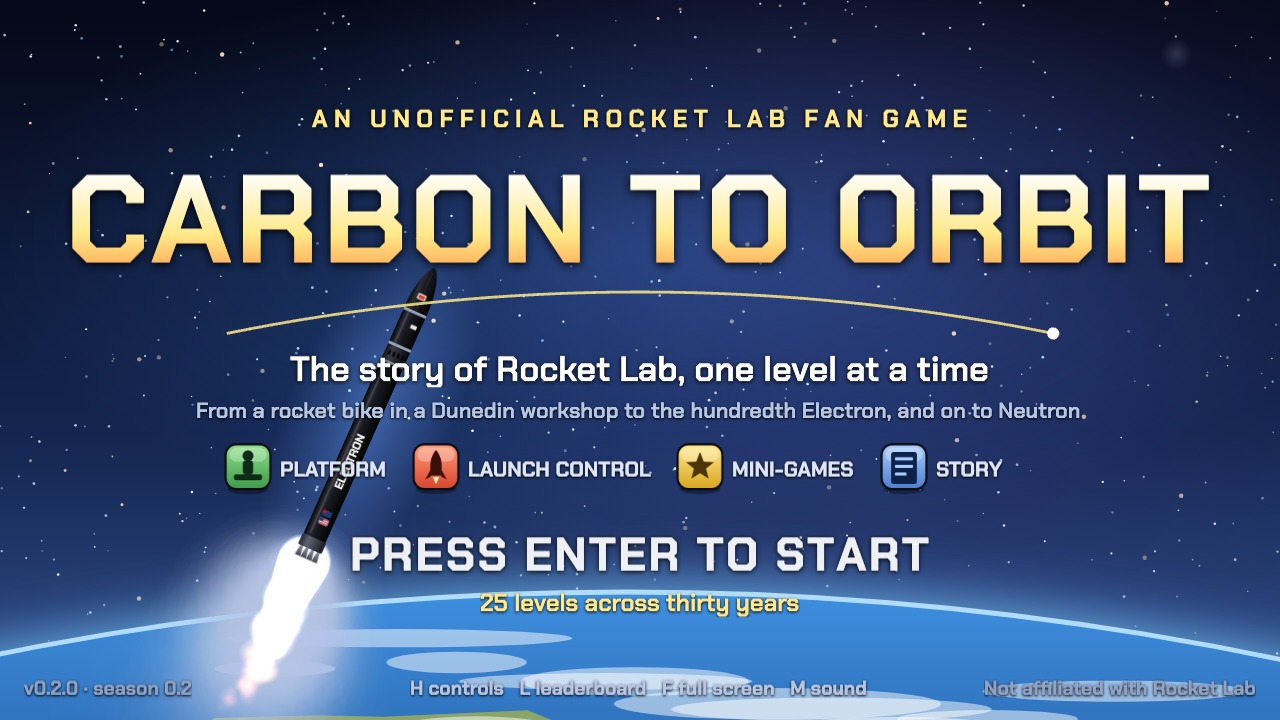
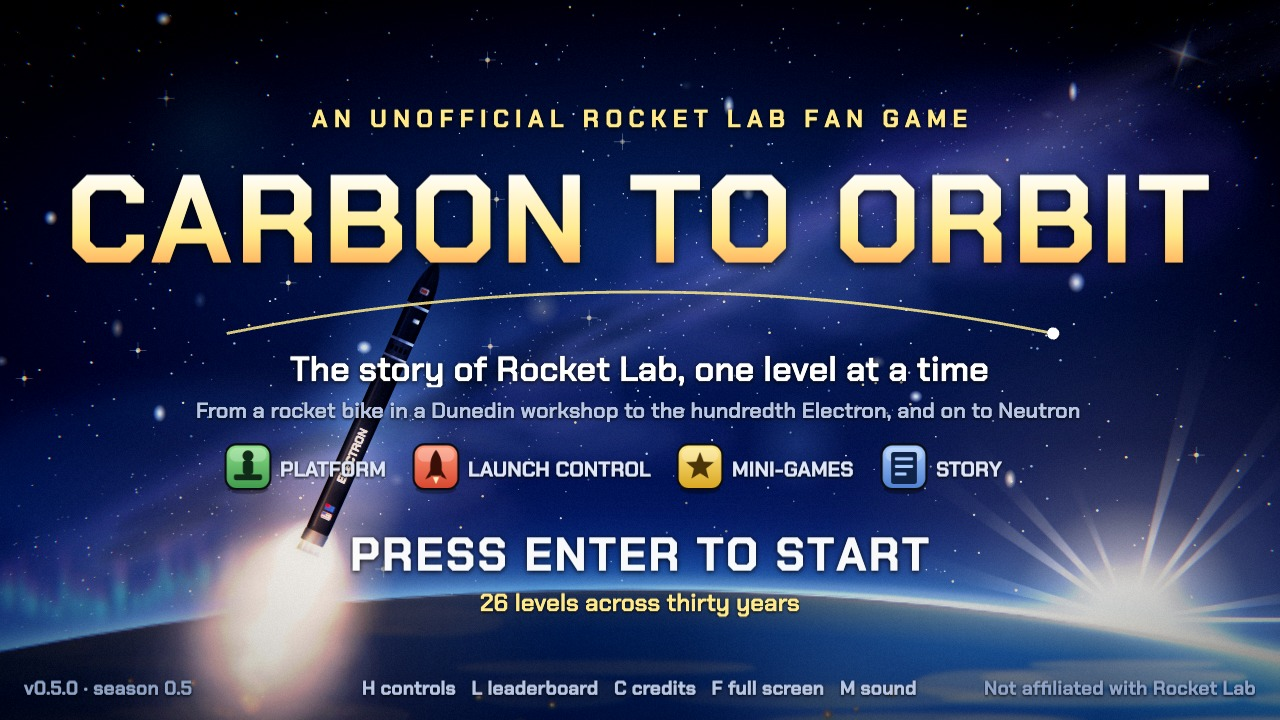
The title screen gets the hi-fi look: an Electron climbing into an orbital sunrise
The rocket is lit by its plume, earthshine and the sun; every word stays on the HUD camera. docs/media/title.jpg is a new hi-fi capture.

diff --git a/src/looks/title.ts b/src/looks/title.ts
@@ -1,0 +1,108 @@
+import Phaser from 'phaser';
+import { D, S, C2, el, line, lg, rg, rng } from '../art';
+import { texAt, soft, add, halo } from '../hifi';
+import type { Look } from '../hifi';
+import { spaceTextures, SPACE } from './flight';
+
+// ------------------------------------------------------------------ The title screen: an Electron climbing into an orbital sunrise
+// The title is no one day of the story, so its light is the game's choice: the moment a rocket climbing out of the
+// Earth's shadow meets the sun coming over the limb. The Milky Way stands behind the name, the air glows along the edge
+// of the Earth with an aurora low on the night side, and the rocket is lit for real: its own plume from below, earthshine
+// from underneath, the sun from the right. Every word on the screen is on the HUD camera, exactly as it was.
+const SUN = [126, 41]; // where the sun stands on the limb, measured from the middle of the Earth drawing and from its top
+const DIR = [-Math.sin((24 * Math.PI) / 180), Math.cos((24 * Math.PI) / 180)]; // the way the exhaust leaves a rocket leaning 24°
+
+function sky(c: C2) {
+  const r = rng(17);
+  c.fillStyle = lg(c, 0, 0, 0, 180, [0, '#020309'], [0.5, '#060a1e'], [0.8, '#0e1a44'], [1, '#1c3470']); c.fillRect(0, 0, 320, 180);
+  // the Milky Way, from the lower left to the upper right: glow, then dust lanes, then its crowd of faint stars
+  c.save(); c.translate(160, 78); c.rotate(-0.42);
+  soft(c, 9); for (let i = 0; i < 44; i++) { const x = -210 + i * 9.6 + r() * 10, k = 1 - Math.abs(i - 22) / 30; el(c, x, (r() - 0.5) * 16, 16 + r() * 18, (5 + r() * 9) * k, `rgba(${110 + r() * 70},${120 + r() * 50},${220 + r() * 30},${0.035 + r() * 0.05})`); }
+  for (let i = 0; i < 12; i++) el(c, -140 + r() * 280, (r() - 0.5) * 12, 10 + r() * 16, 3 + r() * 4, `rgba(255,${170 + r() * 50},${150 + r() * 40},${0.03 + r() * 0.03})`);
+  soft(c, 4); for (let i = 0; i < 16; i++) el(c, -170 + r() * 340, (r() - 0.5) * 9, 10 + r() * 22, 1 + r() * 2.2, 'rgba(2,3,10,.34)'); soft(c, 0);
+  for (let i = 0; i < 900; i++) { const x = -220 + r() * 440, y = (r() + r() + r() - 1.5) * 20; c.globalAlpha = 0.15 + r() * 0.5; el(c, x, y, 0.1 + r() * 0.14, 0.1 + r() * 0.14, r() < 0.2 ? '#ffd9a8' : '#dfe8ff'); }
+  c.globalAlpha = 1; c.restore();
+  soft(c, 12); el(c, 262, 44, 52, 26, 'rgba(120,70,200,.10)'); el(c, 52, 120, 60, 24, 'rgba(40,120,200,.10)'); soft(c, 0); // two faint nebulae
+  c.fillStyle = lg(c, 0, 110, 0, 180, [0, 'rgba(60,110,220,0)'], [1, 'rgba(60,110,220,.22)']); c.fillRect(0, 110, 320, 70); // the planet's own light, coming up from below
+}
+function sun(c: C2) { // the sun on the edge of the Earth: a hard point, its glare, and the streak a lens draws through it
+  const x = 80, y = 80, r = rng(3);
+  halo(c, x, y, 78, '255,214,160', 0.3); halo(c, x, y, 30, '255,236,200', 0.7);
+  add(c, () => { for (let i = 0; i < 16; i++) { const a = (i / 16) * 6.283 + r() * 0.3, len = 26 + r() * 44, w = 0.02 + r() * 0.03; c.fillStyle = rg(c, x, y, 2, len, [0, 'rgba(255,240,210,.3)'], [1, 'rgba(255,240,210,0)']); c.beginPath(); c.moveTo(x, y); c.arc(x, y, len, a - w, a + w); c.closePath(); c.fill(); } });
+  add(c, () => { c.fillStyle = lg(c, 0, 0, 160, 0, [0, 'rgba(190,220,255,0)'], [0.5, 'rgba(230,240,255,.85)'], [1, 'rgba(190,220,255,0)']); c.fillRect(0, y - 0.45, 160, 0.9); });
+  el(c, x, y, 3.2, 3.2, '#ffffff'); halo(c, x, y, 9, '255,255,255', 1);
+}
+function crescent(c: C2) { // the air along the limb, burning where the sun comes through it (the same circle as the Earth drawing)
+  const cx = 200, cy = 830, R = 800, sx = 200 + SUN[0];
+  for (const [w, a, col] of [[5, 0.16, '255,150,90'], [2.2, 0.4, '255,214,160'], [0.8, 0.95, '255,250,236']] as [number, number, string][]) {
+    c.beginPath(); c.arc(cx, cy, R + w * 0.3, Math.PI * 1.3, Math.PI * 1.7);
+    c.strokeStyle = lg(c, sx - 150, 0, sx + 70, 0, [0, `rgba(${col},0)`], [0.68, `rgba(${col},${a})`], [1, `rgba(${col},0)`]); c.lineWidth = w; soft(c, w * 0.5); c.stroke();
+  }
+  soft(c, 0);
+}
+function night(c: C2) { // the side of the Earth the sun has not reached yet (the same circle as the Earth drawing)
+  const cx = 200, cy = 830, R = 800.6, sx = 200 + SUN[0];
+  c.save(); el(c, cx, cy, R, R); c.clip();
+  c.fillStyle = lg(c, sx - 300, 0, sx + 40, 0, [0, 'rgba(2,5,18,.9)'], [0.55, 'rgba(3,8,26,.78)'], [0.86, 'rgba(8,16,44,.4)'], [1, 'rgba(20,30,70,.05)']); c.fillRect(0, 0, 400, 130);
+  c.fillStyle = lg(c, 0, 30, 0, 130, [0, 'rgba(2,5,18,0)'], [1, 'rgba(2,5,18,.5)']); c.fillRect(0, 0, 400, 130);
+  const r = rng(40); for (let i = 0; i < 70; i++) { const x = 20 + r() * 250, y = 52 + r() * 70; halo(c, x, y, 0.8 + r() * 1.4, '255,206,140', 0.5 + r() * 0.4); } // towns, on the land still in the dark
+  c.restore();
+}
+function aurora(c: C2) { // the southern lights, low over the night side: curtains of green with a red fringe
+  const r = rng(6);
+  soft(c, 1.6);
+  for (let i = 0; i < 46; i++) { const x = 6 + i * 2.4 + r() * 2, h = 8 + r() * 14 * Math.sin((i / 46) * Math.PI), y = 30 - Math.sin(i * 0.22) * 3 - (i / 46) * 5; c.fillStyle = lg(c, 0, y - h, 0, y, [0, 'rgba(255,90,140,0)'], [0.25, 'rgba(255,90,140,.16)'], [0.6, 'rgba(90,255,170,.42)'], [1, 'rgba(90,255,170,0)']); c.fillRect(x, y - h, 1.8 + r() * 1.6, h); }
+  soft(c, 0);
+}
+function glint(c: C2) { add(c, () => { for (const [dx, dy] of [[1, 0], [0, 1]]) { c.fillStyle = lg(c, 8 - dx * 8, 8 - dy * 8, 8 + dx * 8, 8 + dy * 8, [0, 'rgba(255,255,255,0)'], [0.5, 'rgba(255,255,255,.95)'], [1, 'rgba(255,255,255,0)']); c.fillRect(dx ? 0 : 7.7, dy ? 0 : 7.7, dx ? 16 : 0.6, dy ? 16 : 0.6); } }); line(c, 8, 8, 8, 8, '#fff', 0.1); }
+
+type Im = Phaser.GameObjects.Image;
+let o: { sun: Im; rays: Im; dark: Im; arc: Im; aur: Im; plume: Im; core: Im; wash: Im; glint: Im; ghosts: Im[]; embers: Phaser.GameObjects.Particles.ParticleEmitter } | undefined;
+export const titleLook: Look = {
+  build(scene) {
+    texAt(scene, 'hf_tt_sky', 320, 180, D, sky); texAt(scene, 'hf_tt_sun', 160, 160, D, sun); texAt(scene, 'hf_tt_arc', 400, 60, D, crescent); texAt(scene, 'hf_tt_aurora', 124, 36, 2, aurora); texAt(scene, 'hf_tt_glint', 16, 16, D, glint); texAt(scene, 'hf_tt_night', 400, 130, 2, night);
+    spaceTextures(scene);
+  },
+  layers: [],
+  swap: { ...SPACE, sky_night: 'hf_tt_sky' },
+  ambient: 0x56608c,
+  lights: [
+    { x: 150, y: 210, r: 230, color: 0x4f8fff, i: 1.3 },   // earthshine, from underneath
+    { x: 300, y: 150, r: 320, color: 0xffe2b0, i: 1.0 },   // the sun, low on the right
+  ],
+  heroLight: { r: 78, color: 0xffa24a, i: 2.4, dx: DIR[0] * 10, dy: DIR[1] * 10 }, // the plume, lighting the rocket that makes it
+  grade: { threshold: 0.8, bloom: 0.55, exposure: 1.04, contrast: 1.1, saturation: 1.12, shadows: [0.86, 0.95, 1.2], highs: [1.08, 1.0, 0.9], vignette: 0.5, grain: 0.028, fringe: 0.006 },
+  live(hf) {
+    const s = hf.scene, r = rng(8), tw = (targets: object, cfg: object) => s.tweens.add({ targets, yoyo: true, repeat: -1, ease: 'Sine.easeInOut', ...cfg });
+    const puff = (x: number, y: number, kx: number, ky: number, tint: number, a: number) => s.add.image(x, y, 'puff').setScale(S * kx, S * ky).setTint(tint).setBlendMode('ADD').setAlpha(a);
+    // behind the Earth: the sun, so the limb cuts it in half; in front of it: the lit air, and the aurora on the dark side
+    const sunIm = hf.below(s.add.image(0, 0, 'hf_tt_sun').setScale(1 / D).setBlendMode('ADD'), 'earth'), rays = hf.below(s.add.image(0, 0, 'hf_tt_sun').setScale(1.5 / D).setBlendMode('ADD').setAlpha(0.3), 'earth');
+    const dark = hf.above(s.add.image(0, 0, 'hf_tt_night').setOrigin(0.5, 0).setScale(0.5), 'earth'); hf.tag({ dark });
+    const arc = hf.above(s.add.image(0, 0, 'hf_tt_arc').setOrigin(0.5, 0).setScale(1 / D).setBlendMode('ADD'), 'earth'), aur = hf.above(s.add.image(0, 0, 'hf_tt_aurora').setOrigin(0, 1).setScale(0.5).setBlendMode('ADD').setAlpha(0.4), 'earth');
+    tw(aur, { alpha: 0.7, scaleY: 0.58, duration: 4600 }); tw(rays, { alpha: 0.5, angle: 5, duration: 5200 });
+    const ghosts = [[0.34, 1.6, 0x9fd0ff, 0.12], [0.6, 0.6, 0xffe2b0, 0.2], [0.94, 2.6, 0x8fffd8, 0.07], [1.3, 4.2, 0xffb0a0, 0.05]].map(([, k, tint, a]) => hf.above(puff(0, 0, k, k, tint, a), 'earth')); // the lens, strung from the sun through the middle of the frame
+    for (let i = 0; i < 18; i++) tw(hf.above(puff(r() * 320, r() * 120, 0.14 + r() * 0.2, 0.14 + r() * 0.2, r() < 0.3 ? 0xffe2c0 : 0xdfe8ff, 0.95), 'stars'), { alpha: 0.1, duration: 400 + r() * 1600 }); // stars that twinkle
+    const shoot = hf.above(puff(-20, -20, 0.5, 0.12, 0xffffff, 0), 'stars').setRotation(0.5); // now and then, a meteor
+    s.time.addEvent({ delay: 6800, loop: true, callback: () => { const x = 40 + Math.random() * 200, y = 8 + Math.random() * 50; shoot.setPosition(x, y).setAlpha(0.9).setScale(S * 0.3, S * 0.1); s.tweens.add({ targets: shoot, x: x + 60, y: y + 32, alpha: 0, scaleX: S * 2.4, duration: 620, ease: 'Quad.easeOut' }); } });
+    // the Humanity Star flares as its mirrors catch the sun
+    const gl = hf.above(s.add.image(0, 0, 'hf_tt_glint').setScale(S * 1.2).setBlendMode('ADD'), 'star'); tw(gl, { alpha: 0.1, angle: 20, duration: 300 });
+    // the rocket: a white-hot core at the nozzles, the plume's glow round it, its light washing back over the smoke, and embers falling behind
+    const wash = hf.below(puff(0, 0, 9, 9, 0xff8a3a, 0), 'flame'), plume = hf.above(puff(0, 0, 3, 5.4, 0xffb060, 0), 'flame').setRotation((24 * Math.PI) / 180), core = hf.above(puff(0, 0, 1, 1.6, 0xfff4e0, 0), 'flame').setRotation((24 * Math.PI) / 180);
+    const embers = hf.above(s.add.particles(0, 0, 'puff', { speed: { min: 30, max: 90 }, angle: { min: 100, max: 128 }, lifespan: { min: 500, max: 1300 }, scale: { start: S * 0.1, end: 0 }, alpha: { start: 1, end: 0 }, tint: [0xffd9a0, 0xff9a4a], blendMode: 'ADD', frequency: 34, emitting: false }), 'flame');
+    (hf.tags.smoke as Phaser.GameObjects.Particles.ParticleEmitter | undefined)?.setParticleTint(0x8a84a0); // the trail, warmed by the sunrise it is climbing into
+    o = { sun: sunIm, rays, dark, arc, aur, plume, core, wash, glint: gl, ghosts, embers };
+  },
+  step(hf) {
+    if (!o) return;
+    const st = hf.state, t = hf.t, e = hf.tags.earth as Im, hs = hf.tags.star as Im, fl = 0.88 + 0.12 * Math.sin(t * 57) * Math.sin(t * 33), on = st.on || 0;
+    const sx = e.x + SUN[0], sy = e.y + SUN[1] - 4;
+    o.sun.setPosition(sx, sy); o.rays.setPosition(sx, sy); o.arc.setPosition(e.x, e.y); o.dark.setPosition(e.x, e.y); o.aur.setPosition(e.x - 196, e.y + 44);
+    o.ghosts.forEach((g, i) => { const k = [0.34, 0.6, 0.94, 1.3][i]; g.setPosition(sx + (160 - sx) * k * 2, sy + (90 - sy) * k * 2); });
+    hf.power(1, 0.9 + 0.1 * Math.sin(t * 0.7));
+    o.glint.setPosition(hs.x, hs.y);
+    const tx = st.x + DIR[0] * 8, ty = st.y + DIR[1] * 8;
+    o.plume.setPosition(tx, ty).setAlpha(on * 0.64 * fl); o.core.setPosition(st.x + DIR[0] * 2.4, st.y + DIR[1] * 2.4).setAlpha(on * fl); o.wash.setPosition(tx + DIR[0] * 10, ty + DIR[1] * 10).setAlpha(on * 0.17 * fl);
+    o.embers.setPosition(tx, ty); o.embers.emitting = on > 0;
+    hf.heat(tx + DIR[0] * 12, ty + DIR[1] * 12, 34, on * 0.9);
+  },
+};

diff --git a/src/scenes/Title.ts b/src/scenes/Title.ts
@@ -5,20 +5,23 @@ import { music, stopLoops, snd } from '../audio';
 import { VERSION, SEASON } from '../version';
 import { tally, showBoard } from '../leaderboard';
 import { showCredits } from '../contributors';
+import { hifi, HiFi } from '../hifi';
+import { LOOKS } from '../hifiLooks';
 
 /** The title screen: the whole canvas, an Electron climbing past the Earth's limb, and the way in. */
 export class TitleScene extends Phaser.Scene {
-  rocket!: Phaser.GameObjects.Container; flame!: Phaser.GameObjects.Particles.ParticleEmitter; smoke!: Phaser.GameObjects.Particles.ParticleEmitter; t = 0; leaving = false;
+  rocket!: Phaser.GameObjects.Container; flame!: Phaser.GameObjects.Particles.ParticleEmitter; smoke!: Phaser.GameObjects.Particles.ParticleEmitter; t = 0; leaving = false; hf?: HiFi;
   constructor() { super('Title'); }
   create() {
     cam(this); this.t = 0; this.leaving = false;
     stopLoops(); music.play('map');
-    img(this, 0, 0, 'sky_night').setOrigin(0);
-    const stars = img(this, 0, 0, 'stars').setOrigin(0);
+    const hf = (this.hf = hifi(this, LOOKS.title)), K = (k: string) => (hf ? hf.key(k) : k); // the hi-fi look (looks/title.ts) redraws space and lights the rocket
+    const sky = img(this, 0, 0, K('sky_night')).setOrigin(0);
+    const stars = img(this, 0, 0, K('stars')).setOrigin(0);
     this.tweens.add({ targets: stars, alpha: 0.72, duration: 2600, yoyo: true, repeat: -1, ease: 'Sine.easeInOut' });
     // a soft glow behind the name, and the Earth's limb along the bottom
     img(this, W / 2 + 6, 62, 'puff').setScale(S * 22, S * 9).setTint(0x3f7fd0).setAlpha(0.3).setBlendMode('ADD');
-    const earth = img(this, W / 2, 118, 'earthlimb').setOrigin(0.5, 0);
+    const earth = img(this, W / 2, 118, K('earthlimb')).setOrigin(0.5, 0);
     this.tweens.add({ targets: earth, x: W / 2 - 14, duration: 30000, yoyo: true, repeat: -1, ease: 'Sine.easeInOut' });
     // the Humanity Star, flashing across the top
     const hs = img(this, -12, 26, 'puff').setScale(S * 0.5).setBlendMode('ADD');
@@ -28,8 +31,10 @@ export class TitleScene extends Phaser.Scene {
     this.smoke = this.add.particles(0, 0, 'puff', { speed: { min: 6, max: 20 }, angle: { min: 96, max: 132 }, lifespan: { min: 2200, max: 3800 }, scale: { start: S * 0.7, end: S * 4.2 }, alpha: { start: 0.34, end: 0 }, tint: 0xb8c6e6, frequency: 26 });
     this.flame = this.add.particles(0, 0, 'puff', { speed: { min: 60, max: 120 }, angle: { min: 108, max: 120 }, lifespan: { min: 260, max: 520 }, scale: { start: S * 0.85, end: S * 0.15 }, color: [0xffffff, 0xfff0b0, 0xffb347, 0xff5a1f, 0x7a2408], alpha: { start: 1, end: 0 }, blendMode: 'ADD', frequency: 8, quantity: 2 });
     const rim = img(this, 0, -40, 'puff').setScale(S * 2.6, S * 6).setTint(0x7fb4ff).setAlpha(0.32).setBlendMode('ADD');
-    this.rocket = this.add.container(0, 0, [rim, img(this, 0, 0, 'electron_full').setOrigin(0.5, 1)]).setRotation(24 * Math.PI / 180);
+    const body = img(this, 0, 0, 'electron_full').setOrigin(0.5, 1);
+    this.rocket = this.add.container(0, 0, [rim, body]).setRotation(24 * Math.PI / 180);
     this.fly();
+    const worldN = this.children.length; // everything from here on is words and marks: in hi-fi it goes to the HUD camera
     // the name
     T(this, W / 2, 30, 'AN UNOFFICIAL ROCKET LAB FAN GAME', '#ffe98a', 6, '700').setOrigin(0.5).setLetterSpacing(1.6).setShadow(0, 1, '#000000', 4);
     const name = T(this, W / 2, 55, 'CARBON TO ORBIT', '#ffffff', 31, '700').setOrigin(0.5).setLetterSpacing(1).setShadow(0, 2, '#020409', 10);
@@ -56,6 +61,7 @@ export class TitleScene extends Phaser.Scene {
     hotkeys.KeyC = () => showCredits(this.game);
     this.events.once('shutdown', () => { hotkeys.KeyL = undefined; hotkeys.KeyC = undefined; });
     this.input.on('pointerdown', () => this.start());
+    if (hf) { hf.shade(body, 4, 2); hf.tag({ sky, stars, earth, star: hs, smoke: this.smoke, flame: this.flame, rocket: this.rocket }); hf.set({ x: this.rocket.x, y: this.rocket.y, on: 0 }); hf.ready({ hud: this.children.list.slice(worldN) }); }
   }
   /** One climb, bottom-left to top-right, then again after a pause. */
   fly() {
@@ -66,12 +72,12 @@ export class TitleScene extends Phaser.Scene {
   start() {
     if (this.leaving || overlayOpen()) return;
     this.leaving = true; snd.select();
-    this.cameras.main.fadeOut(350, 5, 6, 12);
+    for (const c of this.cameras.cameras) c.fadeOut(350, 5, 6, 12); // the HUD camera too, when the hi-fi layer has made one
     this.time.delayedCall(360, () => this.scene.start('Map', { title: tally().levels === 0 }));
   }
   update() {
     const r = this.rocket, on = r.y > -20 && r.y < H + 70;
-    this.flame.setPosition(r.x, r.y); this.smoke.setPosition(r.x, r.y); this.flame.emitting = on; this.smoke.emitting = on;
+    this.flame.setPosition(r.x, r.y); this.smoke.setPosition(r.x, r.y); this.flame.emitting = on; this.smoke.emitting = on; this.hf?.set({ x: r.x, y: r.y, on: on ? 1 : 0 });
     if (just('a') || just('b')) this.start();
   }
 }

diff --git a/src/hifiLooks.ts b/src/hifiLooks.ts
@@ -12,6 +12,7 @@ import { lc1Looks } from './looks/lc1';
 import { factoryLook } from './looks/factory';
 import { reviewLook } from './looks/review';
 import { mapLook } from './looks/map';
+import { titleLook } from './looks/title';
 import type { HiFi, Look } from './hifi';
 
 // The looks a level's theme can name (see hifi.ts). A look is the art and the numbers; the engine is shared.
@@ -242,4 +243,4 @@ const listingLook: Look = {
 let sat: Phaser.GameObjects.Image | undefined;
 const sat0 = (hf: HiFi) => HX * (1 - (WALL - 320) / (hf.world.LW - 320));
 
-export const LOOKS: Record<string, Look> = { listing: listingLook, workshop: workshopLook, mercury: mercuryLook, stand: standLook, farm: farmLook, mahia: mahiaLook, ...lc1Looks, factory: factoryLook, review: reviewLook, map: mapLook };
+export const LOOKS: Record<string, Look> = { listing: listingLook, workshop: workshopLook, mercury: mercuryLook, stand: standLook, farm: farmLook, mahia: mahiaLook, ...lc1Looks, factory: factoryLook, review: reviewLook, map: mapLook, title: titleLook };

diff --git a/docs/ARCHITECTURE.md b/docs/ARCHITECTURE.md
@@ -81,6 +81,7 @@ Any level can opt into a cinematic look without changing how it plays. `going-pu
   | Hot-fire (single screen) | none | `backdrop()` (layers marked `lit` are lit by Light2D), `shade(engine)`, `tag({ glow, flame, engine })`, `set({ pc, on })` each step, `ready({ hud, lateHud: true })` |
   | Fault finder (single screen, all interface) | none | `key('bg_review')`; the room, the panels and the trace graphics stay in the world, so the post pass makes a glowing wall display of them, and every word goes to the HUD camera: `tag({ room, screen, traces })`, `set({ phase, cx, cy, run, prog, shown, bad, wrong })` each step, `ready({ hud, lateHud: true })` |
   | Map (scrolling, its own HUD camera) | `{ LW: MAPW, ownHud: true }` | `key('map')` and `key('cloud1')`…; `tag({ map, cloud0…, marker, ring })`; `glow(node)` for open nodes; `set({ moving })` each step; `ready()`. The scene keeps its own HUD camera (`ownHud`), and in hi-fi draws the trails once into a render texture, with a soft light under each open one |
+  | Title (single screen) | none | `key('sky_night')`, `key('stars')`, `key('earthlimb')`; `shade(rocket body)`; `tag({ sky, stars, earth, star, smoke, flame, rocket })`; `set({ x, y, on })` each step (the look's `heroLight` is the plume); `ready({ hud })` with every word and mark |
   | Ride (scrolling, no tiles) | `{ LW, height, gaps }` | `backdrop()`; the look draws the ground itself from `world.height` and the scene hides its plain one; `glow(item)`, `tag({ bike })`, `set({ x, y, v, air, thr, rot })` each step, `ready({ props: [bike], deco })` |
 
 - **The HUD stays out of the post pass** on a camera of its own. A scene that already has a HUD camera (the map) says `ownHud` in its `world`, and the layer adds none. A scrolling scene's HUD is found by scroll factor 0. A single-screen scene has no scroll factors, so it names its HUD: `ready({ hud: [...] })`, and `lateHud: true` when whatever it adds later is HUD too.

diff --git a/.claude/skills/add-level/HIFI.md b/.claude/skills/add-level/HIFI.md
@@ -9,6 +9,7 @@ The hi-fi layer is a cinematic look any level can opt into: deep parallax with h
 | A single-screen mini-game | `rutherford` | `src/looks/stand.ts` |
 | A scene that is all interface | `pics-or-it-didnt-happen` (panels and graphs stay in the world and glow; words go to the HUD) | `src/looks/review.ts` |
 | Ride | `find-the-launch-site` | `src/looks/farm.ts` |
+| The title screen | `Title.ts` (space redrawn, the rocket lit by Light2D, every word on the HUD camera) | `src/looks/title.ts` |
 | The world map | `Map.ts` (sea and land on separate layers; names, pins, nodes and tags untouched) | `src/looks/map.ts` |
 
 The look changes how a level looks, never what it says or how it plays.
